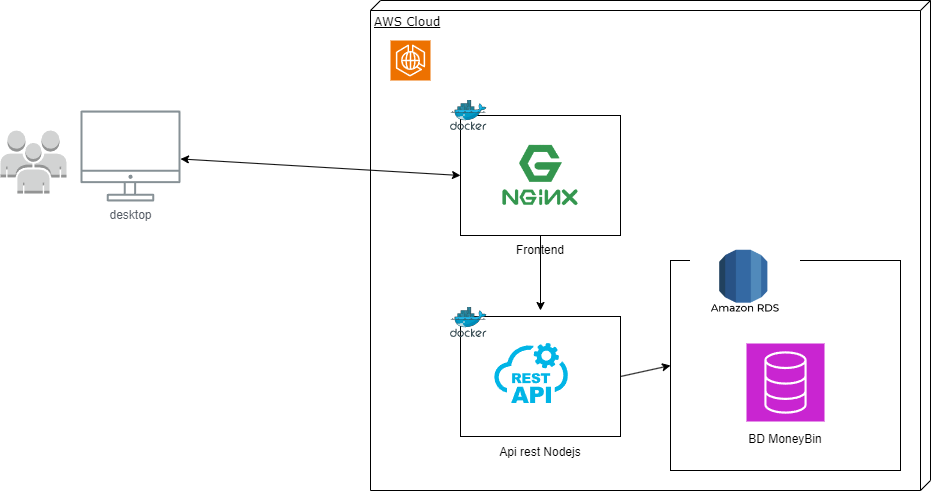
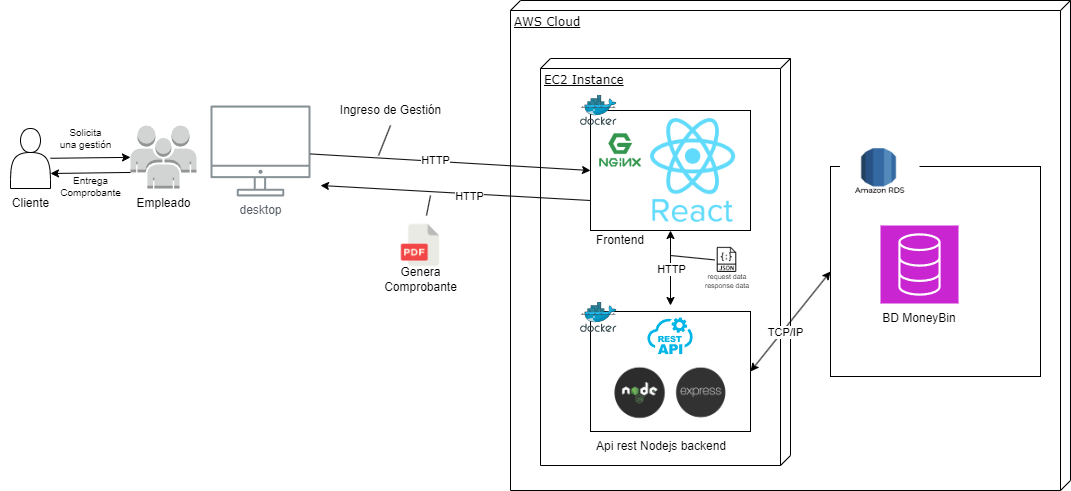
[UPDATE] Se actualiza diagrrama de bloques

diff --git a/Documentacion/Manual Tecnico.md b/Documentacion/Manual Tecnico.md
@@ -1893,7 +1893,7 @@ Base de Datos
 
 ## DIAGRAMA DE BLOQUES
 
-![DIAGRAMA DE BLOQUES](./assets/Diagramas/Diagrama%20bloques.drawio.png)
+![DIAGRAMA DE BLOQUES](./assets/Diagramas/Diagrama%20bloques.png)
 
 ## DIAGRAMA ENTIDAD RELACION
 
